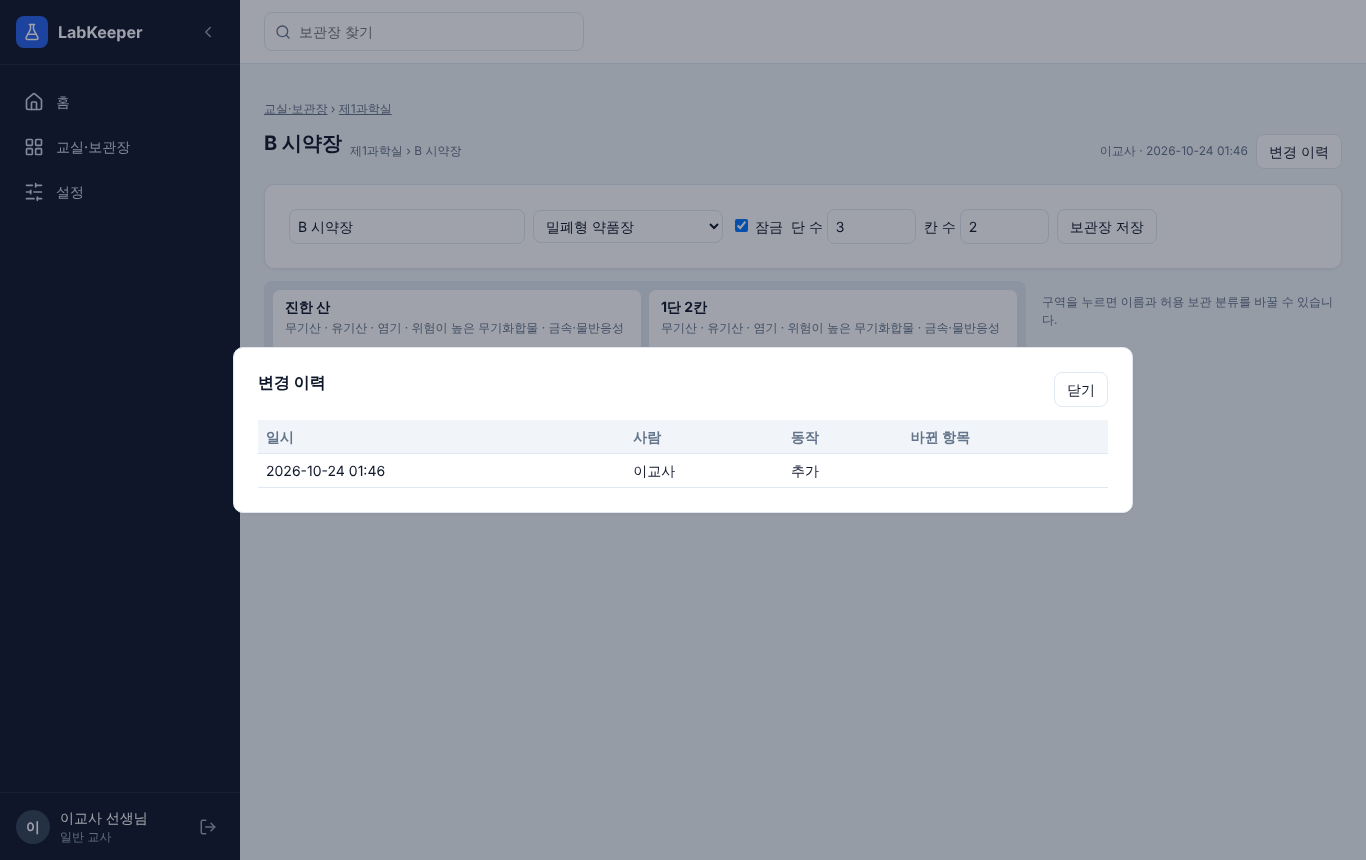
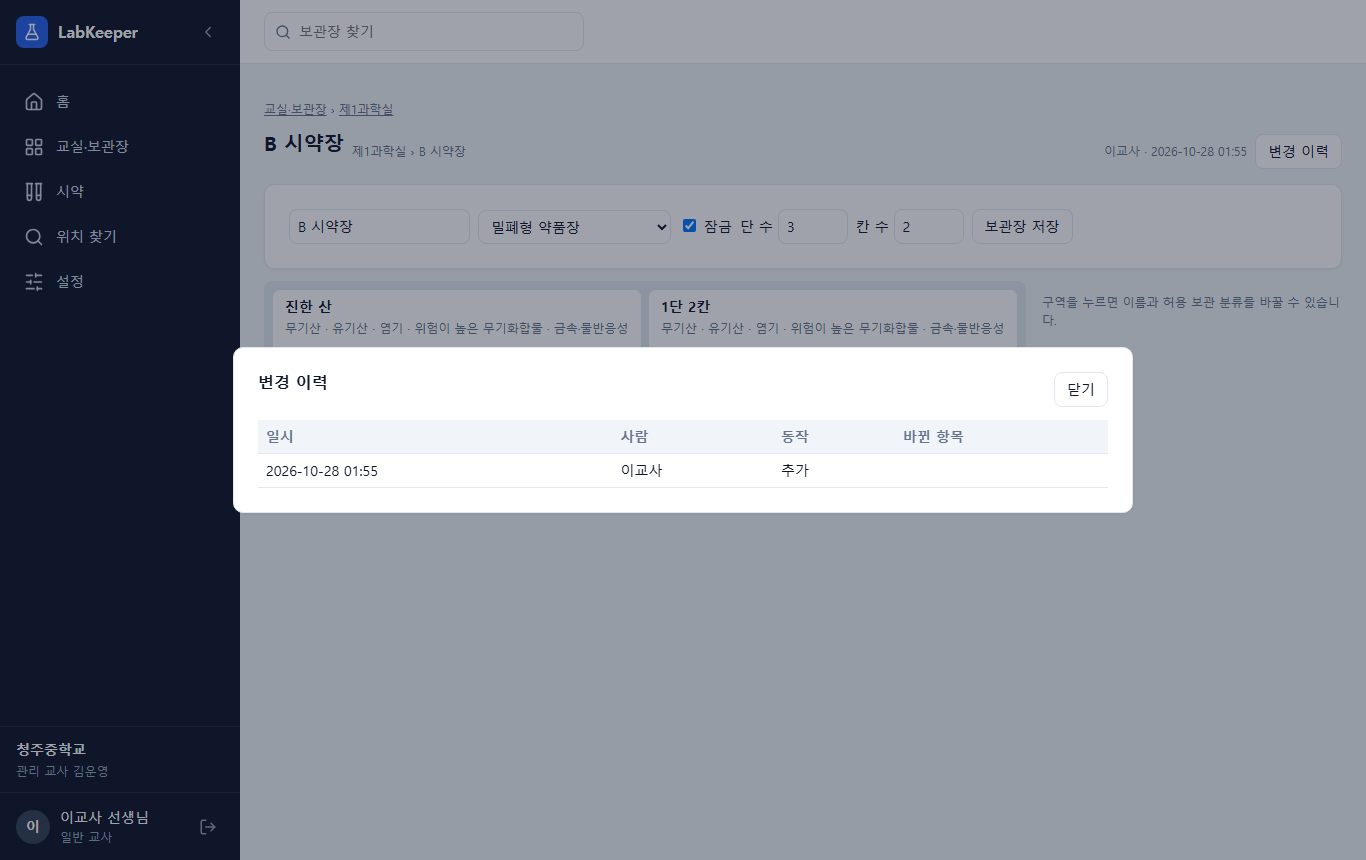
test: M2 end-to-end scenario; docs for M2
- e2e: register a reagent, two uses, ledger in three regional forms, location search
- Playwright runs one worker (the scenarios share one in-memory GAS dev server)
- M1 screenshots refreshed (the menu has 시약 and 위치 찾기 now)

diff --git a/web/e2e/m2.spec.ts b/web/e2e/m2.spec.ts
@@ -1,0 +1,83 @@
+import { expect, test, type APIRequestContext } from '@playwright/test'
+
+const SHOTS = '../docs/screenshots/m2'
+const GAS = 'http://127.0.0.1:8787/'
+
+async function gas(request: APIRequestContext, action: string, payload: object, token?: string) {
+  const res = await request.post(GAS, { headers: { 'Content-Type': 'text/plain' }, data: JSON.stringify({ action, token, payload }) })
+  const body = await res.json()
+  expect(body.ok, `${action}: ${JSON.stringify(body.error)}`).toBe(true)
+  return body.data
+}
+
+test('M2: register a reagent, record uses, print the ledger, find it', async ({ page, request }) => {
+  // The first admin may already exist when the M1 scenario ran first on the same dev server.
+  await request.post(`${GAS}__dev/createAdmin`, { data: { loginId: 'kim', name: '김운영', password: 'first-pass-1' } })
+  await request.post(`${GAS}__dev/schoolInfo`, { data: { schoolName: '청주중학교', managerName: '김운영' } })
+  const token = (await gas(request, 'auth.login', { loginId: 'kim', password: 'first-pass-1' })).token
+  const room = await gas(request, 'records.create', { table: 'Rooms', values: { name: 'M2 화학실', isLab: true } }, token)
+  const cabinet = await gas(request, 'records.create', { table: 'Cabinets', values: { roomId: room.id, name: 'M2 시약장', type: 'sealed', locked: true, rows: 1, cols: 1 } }, token)
+  const [zone] = await gas(request, 'records.createMany', { table: 'Zones', rows: [{ cabinetId: cabinet.id, row: 1, col: 1, name: '진한 산' }] }, token)
+  await gas(request, 'settings.update', { region: 'chungbuk' }, token)
+
+  await page.goto('/')
+  await page.getByLabel('GAS 웹 앱 주소').fill(GAS)
+  await page.getByRole('button', { name: '연결 테스트' }).click()
+  await page.getByRole('button', { name: '저장하고 계속' }).click()
+  await page.getByLabel('아이디', { exact: true }).fill('kim')
+  await page.getByLabel('비밀번호', { exact: true }).fill('first-pass-1')
+  await page.getByRole('button', { name: '로그인' }).click()
+
+  // Register: hazard judged from CAS No. + concentration, stock as of 3월 1일
+  await page.getByRole('link', { name: '시약', exact: true }).click()
+  await page.getByRole('link', { name: '시약 등록' }).click()
+  await page.getByLabel('약품명').fill('염화 수소(염산)')
+  await page.getByLabel('농도(%)').fill('35')
+  await page.getByLabel('CAS No.').fill('7647-01-0')
+  await expect(page.getByLabel('유독물질')).toHaveValue('해당')
+  await page.getByLabel('보관장', { exact: true }).selectOption({ label: 'M2 시약장' })
+  await page.getByLabel('구역', { exact: true }).selectOption({ label: '진한 산' })
+  await page.getByLabel('기초 재고량 (mL)').fill('500')
+  await page.getByRole('button', { name: '이 학년도 3월 1일' }).click()
+  await page.screenshot({ path: `${SHOTS}/01-register.png`, fullPage: true })
+  await page.getByRole('button', { name: '등록' }).click()
+  await expect(page.getByRole('heading', { name: '염화 수소(염산) 35%' })).toBeVisible()
+
+  // Two uses right after experiments
+  for (const [amount, purpose] of [
+    ['50', '2학년 중화 반응 실험'],
+    ['30', '3학년 산과 염기'],
+  ]) {
+    await page.getByRole('button', { name: '사용 기록' }).click()
+    const dialog = page.getByRole('dialog')
+    await dialog.getByLabel('사용량 (mL)').fill(amount)
+    await dialog.getByLabel('용도', { exact: true }).fill(purpose)
+    if (amount === '30') await page.screenshot({ path: `${SHOTS}/02-use.png` })
+    await dialog.getByRole('button', { name: '저장' }).click()
+    await expect(dialog).toBeHidden()
+  }
+  await expect(page.getByText('현재 보유량 420 mL')).toBeVisible()
+
+  // Ledger in the three regional forms
+  for (const region of ['chungbuk', 'seoul', 'gyeonggi']) {
+    await gas(request, 'settings.update', { region }, token)
+    await page.goto('/reagents/ledger')
+    const sheet = page.getByRole('region', { name: '염화 수소(염산) 35% 1쪽' })
+    await expect(sheet).toBeVisible()
+    const remaining = region === 'seoul' ? 8 : 5
+    const cells = sheet.locator(`table.ledger-rows tbody tr td:nth-child(${remaining})`)
+    await expect(cells.nth(0)).toHaveText('500')
+    await expect(cells.nth(1)).toHaveText('450')
+    await expect(cells.nth(2)).toHaveText('420')
+    await page.screenshot({ path: `${SHOTS}/03-ledger-${region}.png`, fullPage: true })
+  }
+  await gas(request, 'settings.update', { region: 'chungbuk' }, token)
+
+  // Find where it is kept
+  await page.getByRole('link', { name: '위치 찾기' }).click()
+  await page.getByLabel('찾을 시약').fill('염산')
+  await page.getByRole('link', { name: 'M2 화학실 › M2 시약장 › 진한 산' }).click()
+  await expect(page).toHaveURL(`/cabinets/${cabinet.id}?zone=${zone.id}`)
+  await expect(page.locator('.zone-highlight')).toContainText('진한 산')
+  await page.screenshot({ path: `${SHOTS}/04-find.png` })
+})

diff --git a/web/playwright.config.ts b/web/playwright.config.ts
@@ -9,6 +9,8 @@ const executablePath = process.env.PW_CHROMIUM ?? (fs.existsSync(CLOUD_CHROMIUM)
 export default defineConfig({
   testDir: './e2e',
   timeout: 60_000,
+  // One in-memory GAS dev server is shared, so the scenarios run one after another.
+  workers: 1,
   use: {
     baseURL: 'http://127.0.0.1:5173',
     launchOptions: { executablePath },

diff --git a/web/src/print/print.css b/web/src/print/print.css
@@ -2,7 +2,8 @@
 .ledger-sheets {
   display: grid;
   gap: 16px;
-  justify-content: center;
+  justify-content: safe center;
+  overflow-x: auto;
 }
 
 .sheet {

diff --git a/docs/project-status.md b/docs/project-status.md
@@ -1,14 +1,14 @@
 # LabKeeper 작업 현황
 
-마지막 정리: 2026-10-24 · 이 문서는 "지금까지 한 일"과 "앞으로 할 일"을 한곳에 모은 것입니다. 지금까지는 Claude Code 클라우드 세션에서 작업했고, **이후로는 선생님 PC(로컬)에서 작업합니다** — 준비 방법은 아래 "0. 로컬 작업 환경". 결정 사항의 원문은 [CLAUDE.md](../CLAUDE.md), 진행 체크리스트는 [README.md](../README.md)에 있습니다.
+마지막 정리: 2026-10-28 · 이 문서는 "지금까지 한 일"과 "앞으로 할 일"을 한곳에 모은 것입니다. 지금까지는 Claude Code 클라우드 세션에서 작업했고, **이후로는 선생님 PC(로컬)에서 작업합니다** — 준비 방법은 아래 "0. 로컬 작업 환경". 결정 사항의 원문은 [CLAUDE.md](../CLAUDE.md), 진행 체크리스트는 [README.md](../README.md)에 있습니다.
 
 ## 한눈에 보기
 
 | 구분 | 상태 |
 |---|---|
 | 공용 화면 (Vercel) | 배포 중 — https://labkeeper-trdooleel.vercel.app/ (`main`에 올리면 자동 배포) |
-| 개발용 학교 시트 | **선생님이 새 코드로 업데이트해야 함** (아래 "지금 선생님이 할 일") |
-| 1차 개발 | M1 기본 틀 + 여러 학교 공용 구조 + 디자인 B + 시트 탭 한국어화 완료 → **다음은 M2 시약과 대장** |
+| 개발용 학교 시트 | clasp로 연결됨. `cd gas && npm run deploy`로 git 최신 코드를 새 버전으로 배포 |
+| 1차 개발 | M1 + 여러 학교 공용 구조 + 디자인 B + 시트 탭 한국어화 + **M2 시약과 대장** 완료 → 선생님 확인 후 **M3 폐수와 점검** |
 | 2차 개발 | 과학 교구 관리 — M5를 마치면 바로 이어서 |
 | 다른 학교 배포 | 1차 기능 완성 후 (개발용 시트를 "배포용 원본으로 초기화") |
 
@@ -92,15 +92,32 @@ npx playwright install chromium
 - 옛 영어 탭과 AuditLog는 새 코드 첫 실행 때 자동으로 옮겨짐
 - 설계: [specs/2026-10-24-korean-sheet-tabs-design.md](superpowers/specs/2026-10-24-korean-sheet-tabs-design.md)
 
-### 1-6. 개발 환경(하네스)
+### 1-6. M2 시약과 대장 (2026-10-27~28)
+- 시약 등록: 한 건씩(기초 재고량 + 기준일, "이 학년도 3월 1일" 버튼) / 엑셀 양식 내려받기 → 미리보기 → 일괄 등록(이미 등록된 시약은 건너뜀)
+- 유독물질·사고대비물질 자동 판정(경기 부록9 46종, 원문 오류 2곳 고침). 표에 없으면 "확인 필요" → 직접 지정
+- 실험 후 사용 기록·입고 창(남는 양 미리 보기, 최근 용도), 지난 기록 고치기·삭제, 잔량이 음수가 되면 서버가 거부
+- 화학약품 관리대장: 학년도별, 충북 서식3·경기 서식3·서울(가로) 양식, 확인·결재 칸은 비움, 유해화학물질 형광 표시
+- 위치 찾기 탭, 보관장 화면에서 구역 강조. 시약이 든 구역·보관장·교실은 삭제 불가
+- 새 탭: 시약, 시약 수불, 시약 이력. API_VERSION 4
+- 설계·계획: [specs/2026-10-27-m2-reagents-and-ledger-design.md](superpowers/specs/2026-10-27-m2-reagents-and-ledger-design.md), [plans/2026-10-27-m2-reagents-and-ledger.md](superpowers/plans/2026-10-27-m2-reagents-and-ledger.md)
+- 화면 스크린샷: [screenshots/m2](screenshots/m2)
+
+### 1-7. 개발 환경(하네스)
 - 세션 시작 훅 두 개(모두 Node라 Windows PC·클라우드 공통, Python 불필요): [claude-skills.md](claude-skills.md)
   - `.claude/hooks/install-deps.mjs`: `gas/`, `web/`에 패키지가 없거나 바뀌었으면 `npm install` → 테스트·린트·빌드·e2e를 바로 돌릴 수 있음
   - `.claude/hooks/session-start.mjs`: superpowers·ponytail 스킬 규칙을 세션에 넣음
 - e2e 브라우저: 클라우드에서는 미리 설치된 Chromium, PC에서는 Playwright의 Chromium(`npx playwright install chromium`)
 - 린트: `cd web && npm run lint` (oxlint, 현재 오류 0·경고 10)
-- 시험 명령은 CLAUDE.md "개발 명령" 참고. 현재 GAS 144개, 화면 114개, e2e 1개 시나리오 통과
+- 시험 명령은 CLAUDE.md "개발 명령" 참고. 현재 GAS 187개, 화면 223개, e2e 2개 시나리오 통과
 
 ## 2. 지금 선생님이 할 일
+
+**M2 확인** (개발용 시트에는 `npm run deploy`로 이미 배포됨)
+1. https://labkeeper-trdooleel.vercel.app/ 에서 시약 몇 개를 등록하고(한 건 + 엑셀), 사용 기록을 남겨 보기
+2. 설정의 "장부 양식 지역"을 바꿔 가며 대장을 실제로 인쇄해 매뉴얼 양식과 비교(한 장에 들어가는 줄 수, 글자 크기)
+3. 시트의 시약·시약 수불·시약 이력 탭이 읽기 쉬운지 보기
+
+**M1 때 할 일** (끝남)
 
 1. ~~개발용 시트의 **Apps Script**: 파일을 `LabKeeper` 하나만 두고 [gas/dist/LabKeeper.gs](../gas/dist/LabKeeper.gs) 내용을 붙여 넣고 저장 (옛 7개 파일은 삭제)~~ — 완료 (2026-10-27 clasp로 확인)
 2. ~~**배포 → 배포 관리 → 수정 → 새 버전 → 배포** (주소 유지)~~ — 완료. 이제부터는 `cd gas && npm run deploy`
@@ -117,7 +134,7 @@ npx playwright install chromium
 
 | 단계 | 내용 | 새로 생길 탭 | 끝나면 확인 |
 |---|---|---|---|
-| **M2 시약과 대장** | 시약 등록(한 건·엑셀 일괄), 유독물질·사고대비물질 판정, 수불 기록(입고·출고·폐기·정정), 위치 찾기 탭, 화학약품 관리대장(서식3) 충북·서울·경기 출력 | 시약, 시약 수불, 시약 이력 | 대장이 매뉴얼 양식대로 출력된다 |
+| ~~M2 시약과 대장~~ | 완료 (1-6) | 시약, 시약 수불, 시약 이력 | **선생님 확인 중**: 대장이 매뉴얼 양식대로 출력된다 |
 | **M3 폐수와 점검** | 폐수·폐시약 기록과 대장, 월간 안전점검표·폐수 점검표(서식 1·4·5, A·B형) 입력과 3개 지역 출력 | 폐수·폐시약, 안전점검, 폐수점검, 폐수·점검 이력 | 4종 서식 × 3개 지역 출력 |
 | **M4 MSDS와 경고표지** | data.go.kr MSDS API(참고자료), 업체 MSDS 파일 첨부, GHS 경고표지 출력 | MSDS 참고자료 | 실제 시약으로 라벨 출력 |
 | **M5 보관 위치** | 보관 분류, 위치 추천, 공존 불가 경고, 정돈 화면 | — | 시약장 하나를 정돈해 본다 |
@@ -161,6 +178,12 @@ npx playwright install chromium
 - "사본 만들기" 때 스크립트 설정값이 복사되는지(사본 감지·원본 표시의 전제)
 - 1000줄이 넘을 때 행 추가, 1행 고정된 탭 비우기
 - 시트 메뉴 대화상자(첫 계정, 학교 정보)와 이메일 권한 승인
+
+**M2에서 미룬 것**
+- 시약 이력 보기에서 수불 기록의 "추가"는 바뀐 항목 칸이 비어 보임(수정만 항목이 보임)
+- 대장 한 장의 줄 수(충북 16, 경기 20, 서울 12)는 실제 인쇄 후 조정
+- 엑셀 처리 라이브러리(ExcelJS 4.4.0)에 npm audit 보통 경고 2건(내부 uuid, 이 앱 사용 방식과는 무관). ExcelJS 새 버전이 나오면 올리기
+- 페이지가 길면 왼쪽 메뉴 배경이 화면 높이까지만 칠해짐(M1부터)
 
 **개발 도구**
 - e2e를 돌릴 때마다 스크린샷 파일이 바뀜(시각이 찍혀서)

diff --git a/CLAUDE.md b/CLAUDE.md
@@ -21,9 +21,13 @@
     - 운영 교사가 계정을 만들고, 비밀번호를 잊으면 운영 교사가 초기화한다.
     - 비밀번호는 평문으로 저장하지 않는다 (사용자별 salt + 해시로 스프레드시트에 저장).
     - 권한은 운영 교사(관리자)와 일반 교사 두 가지다. 일반 교사도 설정 변경·기록 삭제를 포함해 모든 기능을 쓴다. 운영 교사만 하는 일은 계정 관리뿐이다.
-- **시트 탭 구성**: 탭 이름·머리글은 한국어(코드의 표·열 이름은 영어 그대로, `gas/src/Schema.js`의 SHEET_NAMES·COLUMN_LABELS로 대응). 기록 탭(파랑): 환경설정, 계정, 교실, 보관장, 보관장 구역 → 나중에 시약, 시약 수불, 폐수·폐시약, 안전점검, 폐수점검, MSDS 참고자료, 교구, 교구 기준. 이력 탭(회색): 분야별(환경설정 이력, 계정 이력, 접속 기록, 교실 이력 → 시약 이력, 폐수·점검 이력, 교구 이력), 왼쪽은 사람이 읽는 열, 오른쪽은 원자료. 시각은 한국 시간(+09:00). 작성자·수정자·삭제자 이름 칸을 함께 둔다. 새 표를 만들 때 이 규칙을 따른다.
+- **시트 탭 구성**: 탭 이름·머리글은 한국어(코드의 표·열 이름은 영어 그대로, `gas/src/Schema.js`의 SHEET_NAMES·COLUMN_LABELS로 대응). 기록 탭(파랑): 환경설정, 계정, 교실, 보관장, 보관장 구역, 시약, 시약 수불 → 나중에 폐수·폐시약, 안전점검, 폐수점검, MSDS 참고자료, 교구, 교구 기준. 이력 탭(회색): 분야별(환경설정 이력, 계정 이력, 접속 기록, 교실 이력, 시약 이력 → 폐수·점검 이력, 교구 이력), 왼쪽은 사람이 읽는 열, 오른쪽은 원자료. 시각은 한국 시간(+09:00). 작성자·수정자·삭제자 이름 칸을 함께 둔다. 새 표를 만들 때 이 규칙을 따른다.
 - **기록 원칙 (앱 전체에 적용)**: 모든 기록에 작성자·작성일시·수정자·수정일시를 남기고, 삭제는 '삭제됨' 표시와 삭제자를 남긴다. 추가·수정·삭제·설정 변경은 모두 변경 이력에 남긴다. 새 기능도 같은 원칙을 따른다.
-- 같은 약품은 여러 병이어도 한 건으로 등록하고, 보관 위치는 한 곳이다.
+- 같은 약품은 여러 병이어도 한 건으로 등록하고, 보관 위치는 한 곳이다. 같은 약품명(공백·대소문자 무시) + 같은 농도는 중복 등록할 수 없다.
+- **시약 수불 (M2)**: 구분은 기초 재고·입고·출고 셋(정정 구분 없음, 실제 양과 다르면 기록을 고친다. 희석 용액은 따로 관리하지 않고 원래 시약의 출고로 적는다). 날짜는 사용자가 정하고(미래·기초 재고 이전 불가), 어느 시점에서도 잔량이 음수가 되면 서버가 거부한다. 시약 탭의 현재 보유량은 서버만 쓴다. 대장의 보유량·잔량·이월은 화면(web/src/domain/ledger.ts)이 계산하고, 같은 규칙이 gas/src/Reagents.js의 txBalances에 있다(함께 바꾼다).
+- **화학약품 관리대장**: 학년도(3월 1일~이듬해 2월 말일)별로 출력, 첫 줄은 이월(또는 기초 재고). 확인·결재 칸은 비워 손 서명. 유해화학물질은 약품명 형광 표시, 판정 불가는 "확인 필요". 지역 양식은 설정의 "장부 양식 지역"(충북 서식3 / 경기 서식3 / 서울, 서울은 가로).
+- 유독물질·사고대비물질 판정 기준: 경기 부록9 46종 표(web/src/data/hazardThresholds.ts). 표에 없으면 판정 불가 → 사용자가 직접 지정(hazardManual). M4에서 data.go.kr 정보로 보완한다.
+- 시약이 들어 있는 구역·보관장·교실은 삭제할 수 없다.
 - 1차 설계 문서: docs/superpowers/specs/2026-10-23-labkeeper-phase1-design.md
 - PC 브라우저용을 먼저 완성하고, 그 뒤에 모바일 대응을 추가한다. PC용 단계에서 모바일 전용 작업을 미리 하지 않는다.
 - 앱 범위: 물품 대장, 시약 관리, 보관 위치(교구장·시약장 구역) 관리·열람, 장부 작성·출력, 기구 사용연한·사용법, 시약 관리 가이드라인, MSDS·GHS 통합 관리. 자세한 내용은 README.md의 '방향' 참고.
@@ -57,6 +61,7 @@
 - 개발용 시트에 올리기: `cd gas && npm run deploy` (bundle → GAS 테스트 → `clasp push` → 웹 앱 배포를 새 버전으로 갱신, 주소 유지, 배포 설명에 git 커밋 표시). gas/src를 바꿔 커밋하면 이 명령으로 개발용 시트를 git 최신과 맞춘다. `gas/.clasp.json`(스크립트 ID·배포 ID)은 공개 저장소라 git에 올리지 않고 PC에만 둔다. `gas/dist/appsscript.json`은 시트의 매니페스트와 같게 둔다.
 - 통합 시험: `cd web && npm run e2e` (두 서버를 자동 실행, 연결 화면에 로컬 GAS 주소를 넣고 `/__dev/createAdmin`으로 첫 계정을 만든다. 스크린샷은 docs/screenshots/m1/). 브라우저는 PW_CHROMIUM → 클라우드의 /opt/pw-browsers Chromium → Playwright 기본 순서로 고른다. PC에서는 처음 한 번 `npx playwright install chromium`.
 - 린트: `cd web && npm run lint` (oxlint)
+- 엑셀: ExcelJS 4.4.0을 엑셀 화면에서만 불러 쓴다(`web/src/excel/template.ts`, 별도 청크).
 - 로컬 개발: 개발 빌드에서만 연결 화면이 `http://127.0.0.1:8787/` 같은 로컬 주소를 받는다.
 - GAS 코드는 모듈 없는 전역 함수(V8). 파일 로드 순서가 보장되지 않으므로 최상위에서는 정의만 하고, 액션은 Code.js의 registerActions()에서 모은다.
 - 보관 분류·보관장 종류 id는 gas/src/Schema.js와 web/src/domain/storage.ts 두 곳에 있다. 바꿀 때 함께 바꾼다(GAS 테스트가 목록을 확인한다).

diff --git a/README.md b/README.md
@@ -69,7 +69,8 @@
 - [x] 학교 정보(학교명·관리 교사) 시트 입력 + 메뉴 아래 표시, 시트 옮기기(사본 계속 쓰기 + 운영 종료)
 - [x] 시트 탭 한국어화와 분야별 이력 탭 (docs/superpowers/specs/2026-10-24-korean-sheet-tabs-design.md)
 - [ ] 실제 환경 확인: 개발용 시트에 새 코드 배포 → 시트 메뉴(학교 정보·첫 계정) → 공용 화면 연결
-- [ ] M2 시약과 대장
+- [x] M2 시약과 대장: 시약 등록(한 건·엑셀), 유독물질·사고대비물질 판정, 사용·입고 기록, 화학약품 관리대장 충북·서울·경기 출력, 위치 찾기 (docs/superpowers/specs/2026-10-27-m2-reagents-and-ledger-design.md)
+- [ ] M2 실제 환경 확인: 선생님이 개발용 시트로 써 보고 세 지역 대장을 인쇄해 양식과 비교
 - [ ] M3 폐수와 점검
 - [ ] M4 MSDS와 경고표지
 - [ ] M5 보관 위치 추천과 정돈
